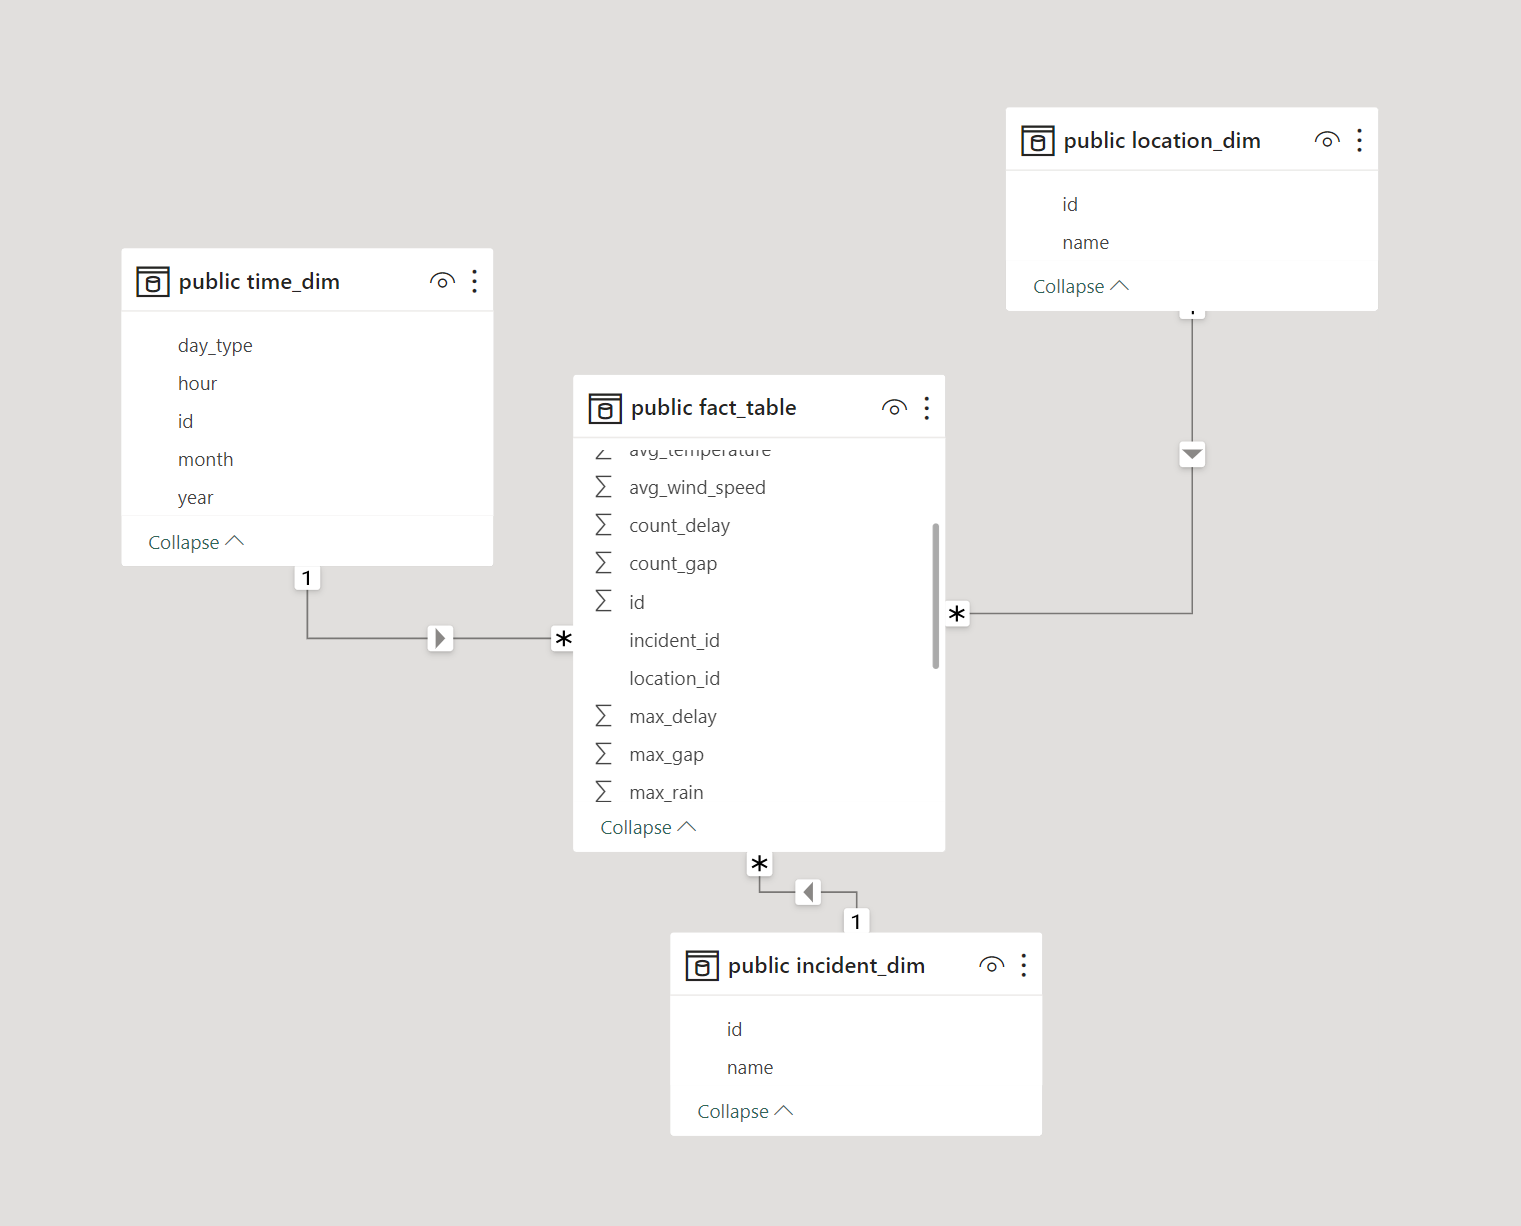
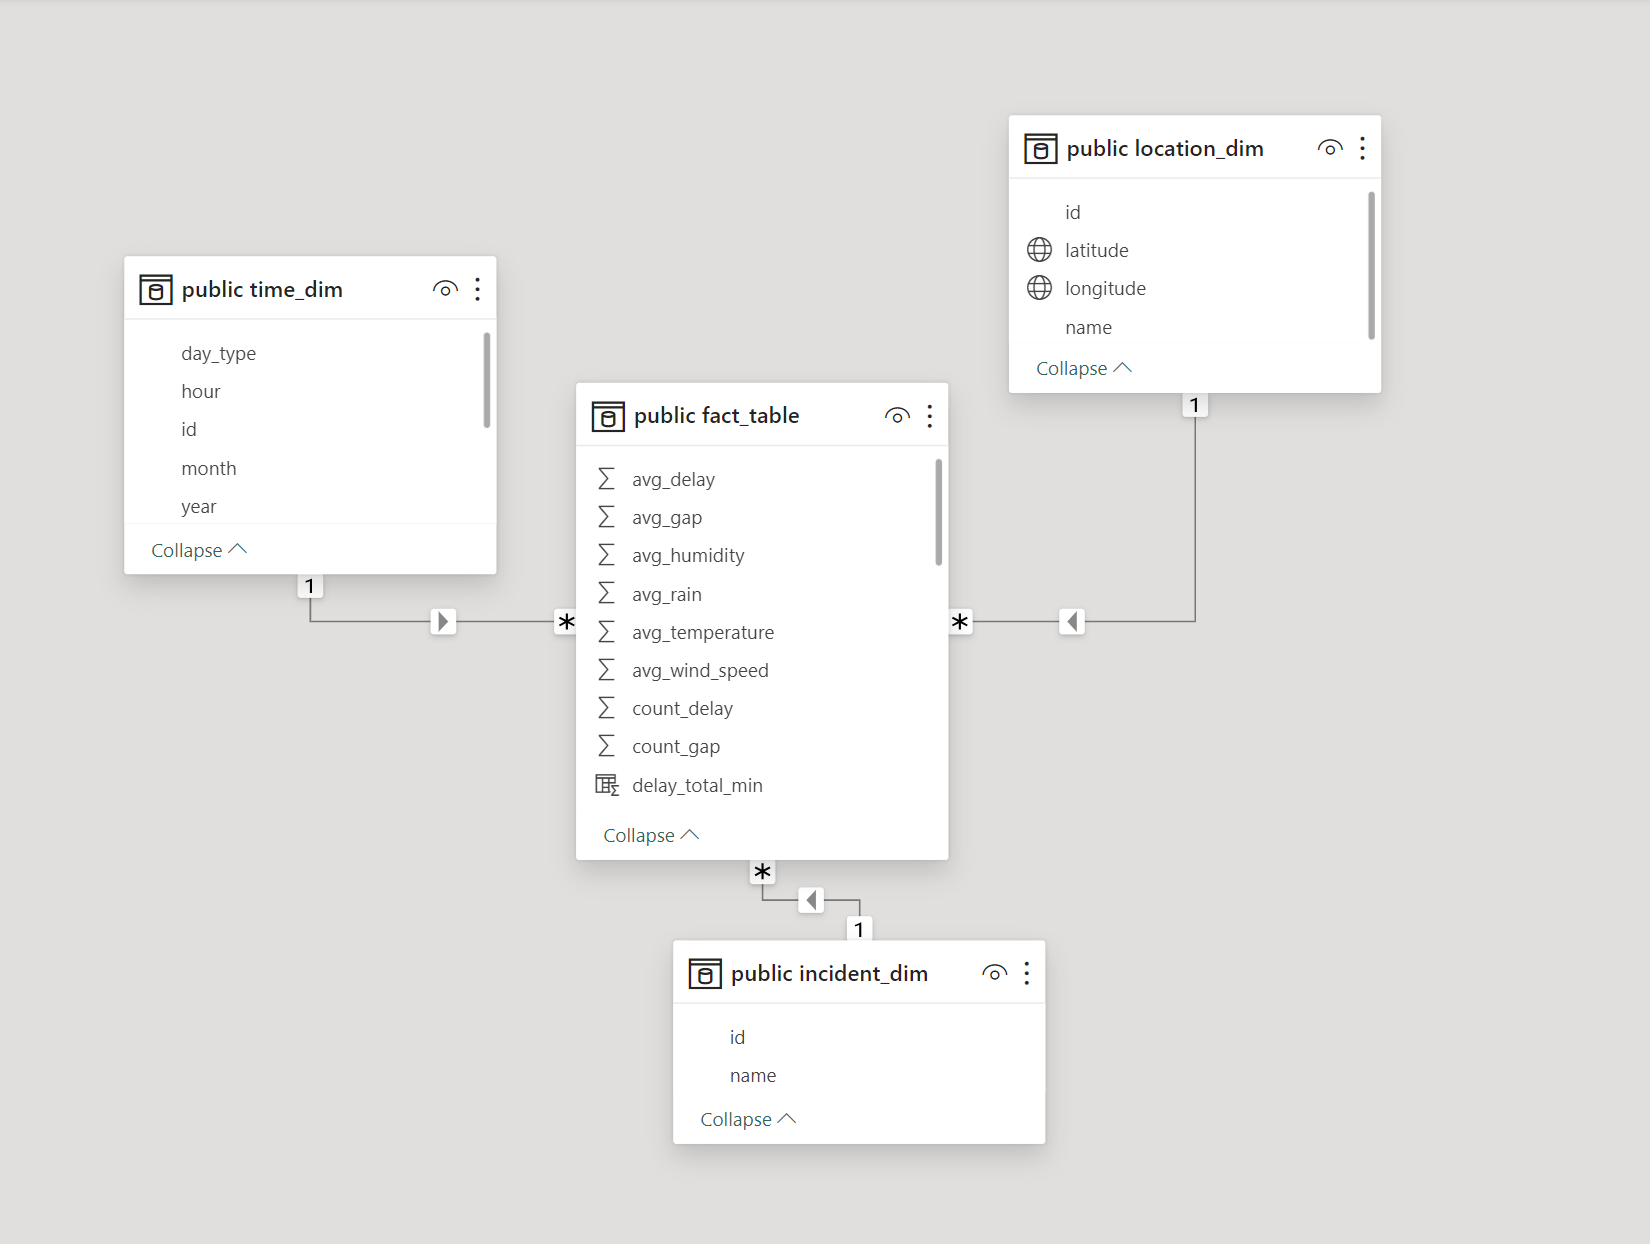
update README for presentation script

Changed region(s): [[0.0618, 0.062, 0.927, 0.9299], [0.1236, 0.3719, 0.1545, 0.4029]]

diff --git a/README.md b/README.md
@@ -17,8 +17,6 @@
 - [How to run](#how-to-run)
   - [Automated](#automated)
   - [Manual](#manual)
-- [References](#references)
-- [License](#license)
 - [Contact](#contact)
 - [Acknowledgements](#acknowledgements)
 
@@ -36,10 +34,12 @@ The data pipeline are built using [Apache Airflow](https://airflow.apache.org/).
 
 ## Pipeline API
 Pipeline API is a Restful API that is built using [Django](https://www.djangoproject.com/) and [Django Rest Framework](https://www.django-rest-framework.org/). The API is used to trigger the data pipeline and to get the status of the data pipeline. The API is defined in the `pipeline_api` folder.
-API Documentation can be found [here](https://github.com/5IF-Data-Engineering/pipeline-api/blob/main/README.md#api-documentation).
+API Documentation can be found [here](https://github.com/5IF-Data-Engineering/pipeline-api/blob/main/README.md#api-documentation). We use [Django](https://www.djangoproject.com/) and [Django Rest Framework](https://www.django-rest-framework.org/) because we want to structure the code in another service
+than Airflow. Django service is exposes on port 8000.
 
 ## Star Schema
-The data is stored in the [PostgreSQL](https://www.postgresql.org/) database. The data is stored in the star schema, and is shown in the figure below.
+The data is stored in a Data Warehouse of [Snowflake](https://www.snowflake.com/), is defined in the `star_schema` folder,
+and is shown in the figure below.
 
 ![Star Schema](./assets/star_schema.png)
 
@@ -47,8 +47,8 @@ The data is stored in the [PostgreSQL](https://www.postgresql.org/) database. Th
 The data pipeline is divided into 4 stages: Ingestion, Staging, Enrichment, and Production.
 
 ## Ingestion
-The bus delay time data is ingested from the 6 Excel spreadsheets from [Toronto Open Data](https://open.toronto.ca/). When the data is ingested, 
-it is also stored in the Redis database to speed up the data pipeline. We divide also the data by year to speed up the data pipeline. The data pipeline is shown in the figure below.
+The bus delay time data is ingested from the 6 Excel spreadsheets from [Toronto Open Data](https://open.toronto.ca/). We use [Pandas](https://pandas.pydata.org/) to read the Excel spreadsheets. When the data is ingested, 
+the Json Response is also stored in the Redis database to speed up the data pipeline. We divide also the data by year to speed up the data pipeline. The data pipeline is shown in the figure below.
 
 ![Bus ingestion](./assets/bus_ingestion.png)
 
@@ -57,7 +57,8 @@ the API call, defined inside the BashOperator. Each BashOperator will execute th
 Inside each small ETL pipeline that we define inside the `pipeline_api`, the data is extracted from [Open Meteo API](https://open-meteo.com/en/docs), then transformed using Pandas, and finally loaded into the MongoDB database. We choose the MongoDB database for the ingestion stage because it is a NoSQL database and flexible, 
 which is suitable for storing the raw data.
 
-The weather data is ingested from the [Open Meteo API](https://open-meteo.com/en/docs). The data is ingested using the [Open Weather Map](https://openweathermap.org/) API. The data is then stored in the MongoDB database. The idea of the data pipeline is much similar to the bus delay time data ingestion. We divide the data by year. We then process the data in parallel. The weather data is also transformed using Pandas and loaded into the MongoDB database.
+The weather data is ingested from the [Open Meteo API](https://open-meteo.com/en/docs). The data is ingested using the [Open Weather Map](https://openweathermap.org/) API. The data is then stored in the MongoDB database. The idea of the data pipeline is much similar to the bus delay time data ingestion. 
+We divide the data by year. We then process the data in parallel. The weather data is also transformed using [Pandas](https://pandas.pydata.org/) and loaded into the MongoDB database.
 
 ## Staging
 
@@ -65,15 +66,25 @@ We want to extract the data from the MongoDB database, transform it, and load it
 
 ![Bus staging](./assets/bus_staging.png)
 
-First, we have to create a table for storing staging data. We extract the data from the MongoDB database. We then aggregate the data by the time, the location and the incident using the MongoDB queries. The aggregated data is loaded into the PostgreSQL database. The DAGs are defined inside the `dags` folder. And the ETL pipelines are triggered by API calling, defined inside the `pipeline_api` folder.
+First, we have to create a table for storing staging data. We extract the data from the MongoDB database. We then aggregate the data by the time, the location and the incident using the MongoDB queries. The aggregated data is loaded into the PostgreSQL database. The DAGs are defined inside the `dags` folder. 
+And the ETL pipelines are triggered by API calling, defined inside the `pipeline_api` folder. We use partitioning by year for the staging database to speed up the data pipeline and to make it easier to join the data in the production environment. Here is the list of partitioned tables:
+
+![Partitioned tables](./assets/partition_table.png)
 
 ## Enrichment
 
-We extract the bus delay data and the weather data from the PostgreSQL database, then join them together.
+We extract the bus delay data and the weather data from the PostgreSQL database, then join them together. And also, we use partitioning by year for the join table. Here is the data pipeline.
+
+![Enrichment](./assets/enrichment.png)
 
 ## Production
 
-We extract the data from the PostgreSQL database, then load it into the star schema on Snowflake. The data pipeline is shown in the figure below.
+We extract the data from the PostgreSQL staging database, then load it into the Data Warehouse on Snowflake. We make the star schema available on Snowflake for analysis on [PowerBI](https://powerbi.microsoft.com/en-us/).
+We use also the DockerOperator for loading the data of the fact table into the Data Warehouse on Snowflake. The DockerOperators are triggered
+by [Airflow](https://airflow.apache.org/) using the [Docker](https://www.docker.com/) container. The Docker image is defined in the `star_schema` folder. The data of the fact table is loaded
+by year to speed up the data pipeline. The data pipeline is shown in the figure below.
+
+![Production](./assets/production.png)
 
 # Presentation
 - Presentation available [here](https://docs.google.com/presentation/d/1dOCUSrn3HKGtE6lQaHa4q8Igz6fDY4AQtRPbG2OfbhQ/edit?usp=sharing)
@@ -82,19 +93,19 @@ We extract the data from the PostgreSQL database, then load it into the star sch
 - [ ] Add more data sources
 - [ ] Add more data pipelines
 - [ ] Add more data analysis
-- [ ] Add more data visualization
+- [ ] Stream processing by Kafka
 
 # Project Submission Checklist
-- [ ] Repository with the code, well documented
+- [x] Repository with the code, well documented
 - [x] Docker-compose file to run the environment
-- [ ] Detailed description of the various steps
+- [x] Detailed description of the various steps
 - [x] Report with the project design steps divided per area
 - [x] Example dataset: the project testing should work offline, i.e., you need to have some sample data points.
 - [x] Slides for the project presentation. You can do them too in markdown too.
 - [x] Use airflow + pandas + mongodb + postgres
 - [x] Using REDIS for speeding up steps
 - [x] STAR schema design includes maintenance upon updates
-- [ ] Creativity: data viz, serious analysis, performance analysis, extensive cleansing.
+- [x] Creativity: data viz, serious analysis, performance analysis, extensive cleansing.
 - [x] Launching docker containers via airflow to schedule job
 
 # How to run
@@ -167,10 +178,6 @@ You need to build the Star Schema image used by DockerOperator using the followi
 docker build -t nmngo248/star-schema:latest ./star_schema
 ```
 
-# References
-
-# License
-
 # Contact
 - [Minh NGO](mailto:ngoc-minh.ngo@insa-lyon.fr)
 - [Yazid SBAI](mailto:yazid.sbai@insa-lyon.fr)
@@ -185,3 +192,8 @@ docker build -t nmngo248/star-schema:latest ./star_schema
 - [Django](https://www.djangoproject.com/)
 - [Django Rest Framework](https://www.django-rest-framework.org/)
 - [PostgreSQL](https://www.postgresql.org/)
+- [Redis](https://redis.io/)
+- [MongoDB](https://www.mongodb.com/)
+- [Pandas](https://pandas.pydata.org/)
+- [PowerBI](https://powerbi.microsoft.com/en-us/)
+- [Snowflake](https://www.snowflake.com/)
